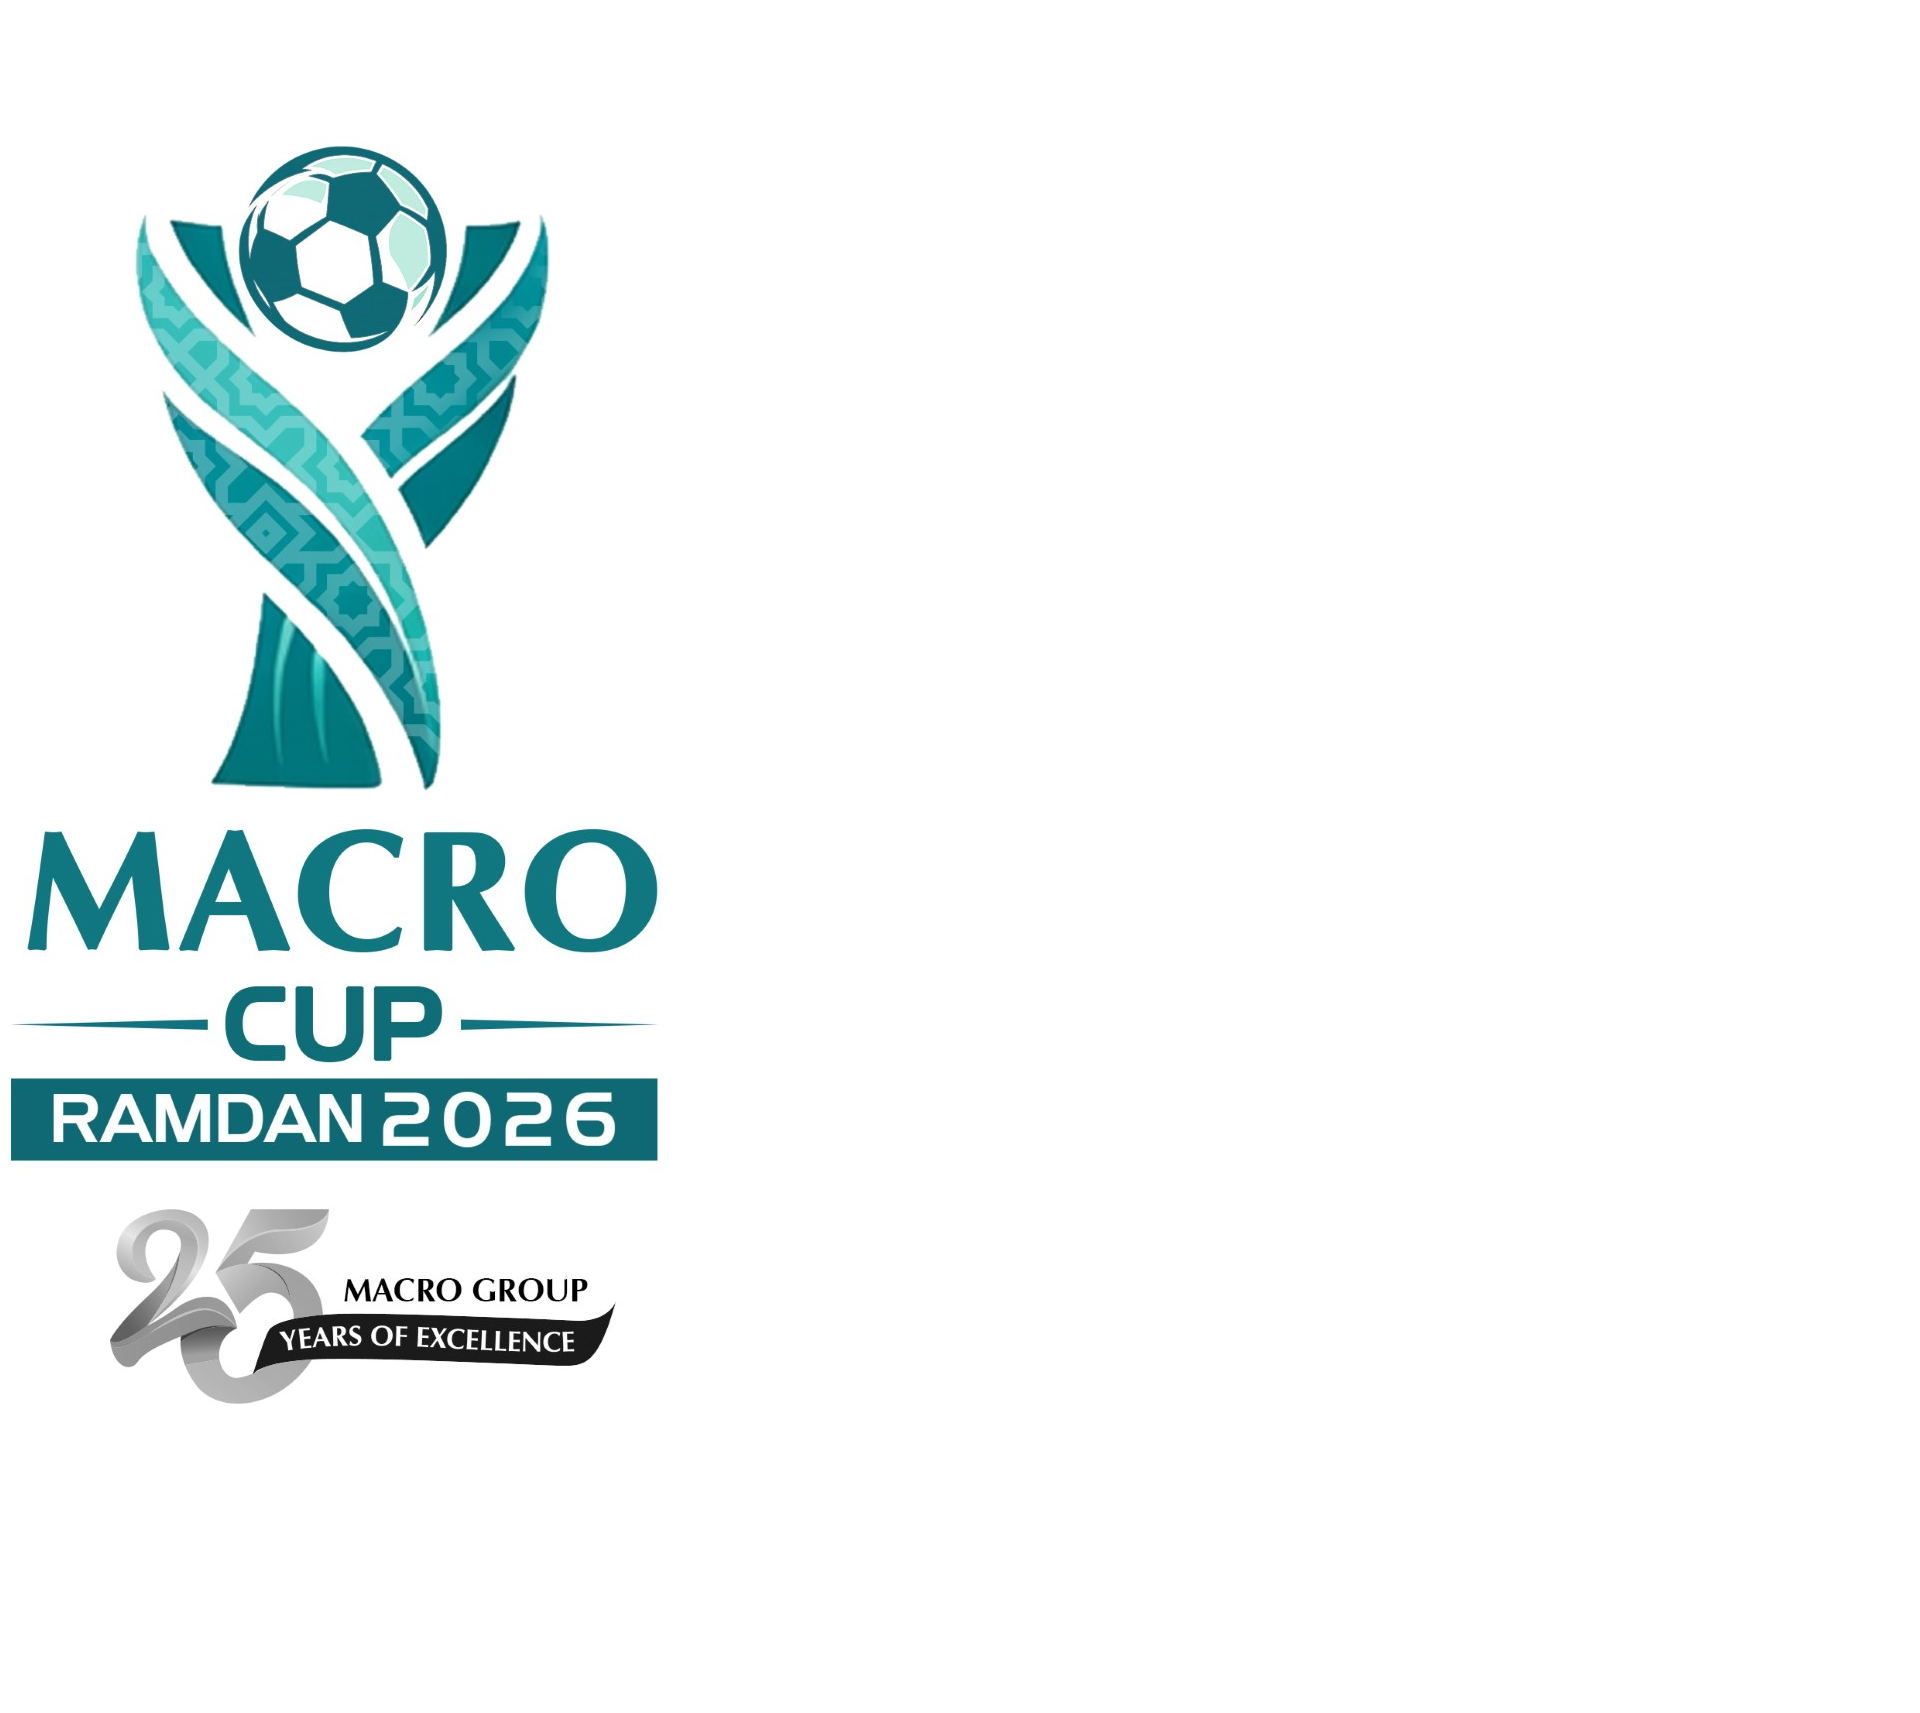
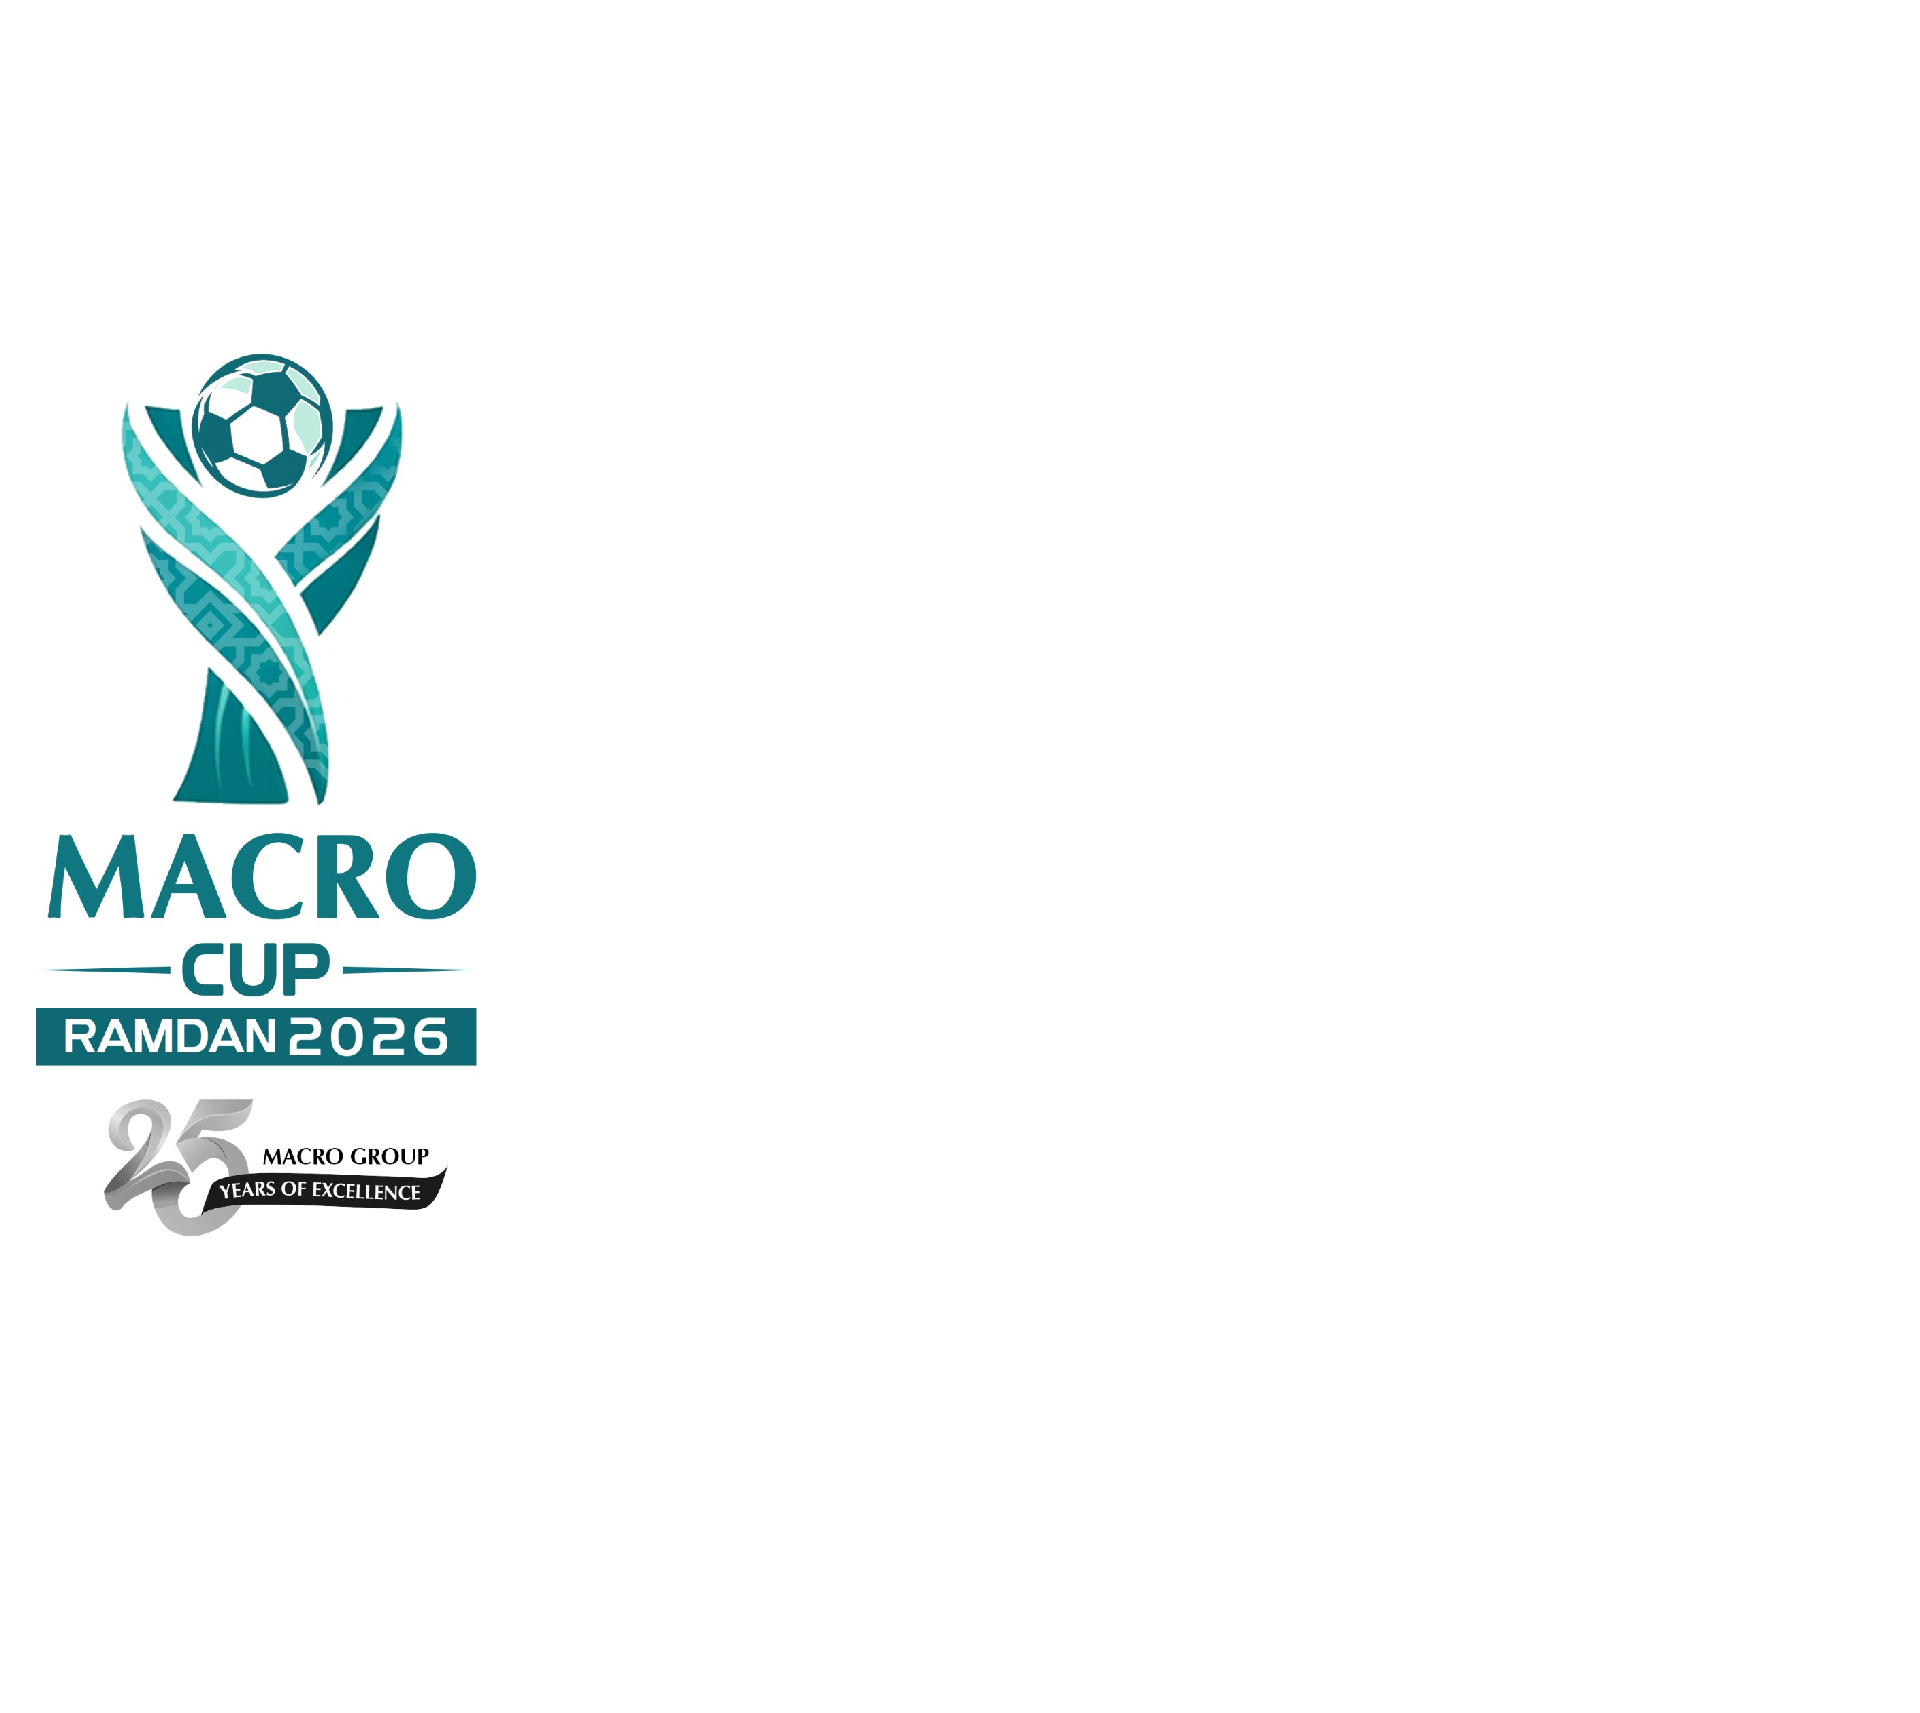
في صوره اسمها background.png في ملف public حطها خلفية

Changed region(s): [[0.0, 0.0619, 0.3438, 0.8354]]

diff --git a/src/app/layout.tsx b/src/app/layout.tsx
@@ -13,7 +13,7 @@ export default function RootLayout({
 }: Readonly<{
   children: React.ReactNode;
 }>) {
-  // استخدام الصورة الموجودة في مجلد public
+  // اسم الصورة الجديد كما تم تحديده
   const backgroundImage = '/background.png';
 
   return (
@@ -25,19 +25,19 @@ export default function RootLayout({
       </head>
       <body className="font-body min-h-screen relative m-0 p-0 overflow-x-hidden bg-transparent">
         <FirebaseClientProvider>
-          {/* طبقة الخلفية - ثابتة وممتدة بالكامل ولكن الصورة بداخلها بحجمها الطبيعي */}
-          <div className="fixed inset-0 w-full h-full -z-50 pointer-events-none bg-white">
+          {/* طبقة الخلفية - ثابتة وتحتوي على الصورة بحجمها الطبيعي */}
+          <div className="fixed inset-0 w-full h-full -z-50 pointer-events-none bg-white flex items-center justify-center">
             <Image
               src={backgroundImage}
               alt="App Background"
               fill
               priority
               quality={100}
-              className="object-none" // تظهر الصورة بحجمها الطبيعي دون تمديد
+              className="object-none" // تظهر الصورة بحجمها الطبيعي دون تمديد في المنتصف
               sizes="100vw"
             />
-            {/* طبقة تظليل خفيفة جداً اختيارية */}
-            <div className="absolute inset-0 bg-white/5 backdrop-blur-[1px]" />
+            {/* طبقة تظليل خفيفة اختيارية لزيادة وضوح النص */}
+            <div className="absolute inset-0 bg-white/10" />
           </div>
           
           {/* منطقة المحتوى الرئيسية */}

diff --git a/src/app/globals.css b/src/app/globals.css
@@ -1,14 +1,13 @@
-
 @tailwind base;
 @tailwind components;
 @tailwind utilities;
 
 @layer base {
   :root {
-    /* جعل الخلفية شفافة لرؤية الصورة خلفها */
+    /* جعل الخلفية شفافة تماماً لرؤية الصورة خلفها */
     --background: 0 0% 100% / 0;
     --foreground: 186 100% 5%;
-    --card: 0 0% 100% / 0.85;
+    --card: 0 0% 100% / 0.9;
     --card-foreground: 186 100% 5%;
     --popover: 0 0% 100% / 0.95;
     --popover-foreground: 186 100% 5%;
@@ -35,12 +34,10 @@
   }
   html, body {
     @apply h-full w-full m-0 p-0;
-    /* إزالة أي لون خلفية صلب قد يحجب الصورة */
     background-color: transparent !important;
   }
   body {
     @apply text-foreground font-body antialiased;
-    background-attachment: fixed;
   }
 }
 
